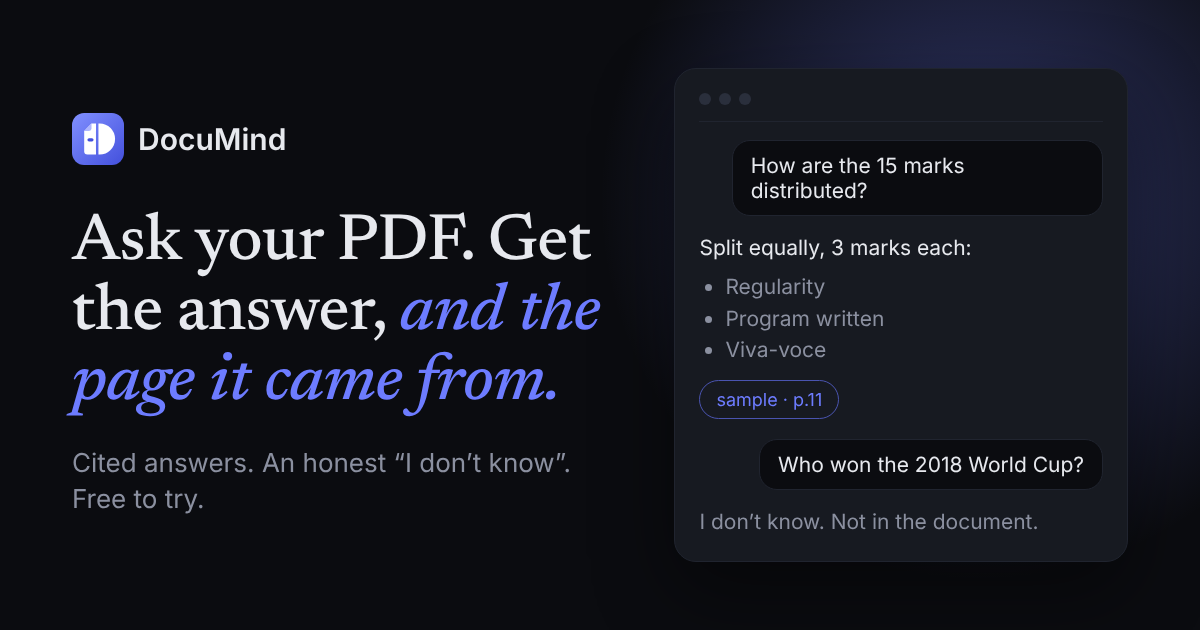
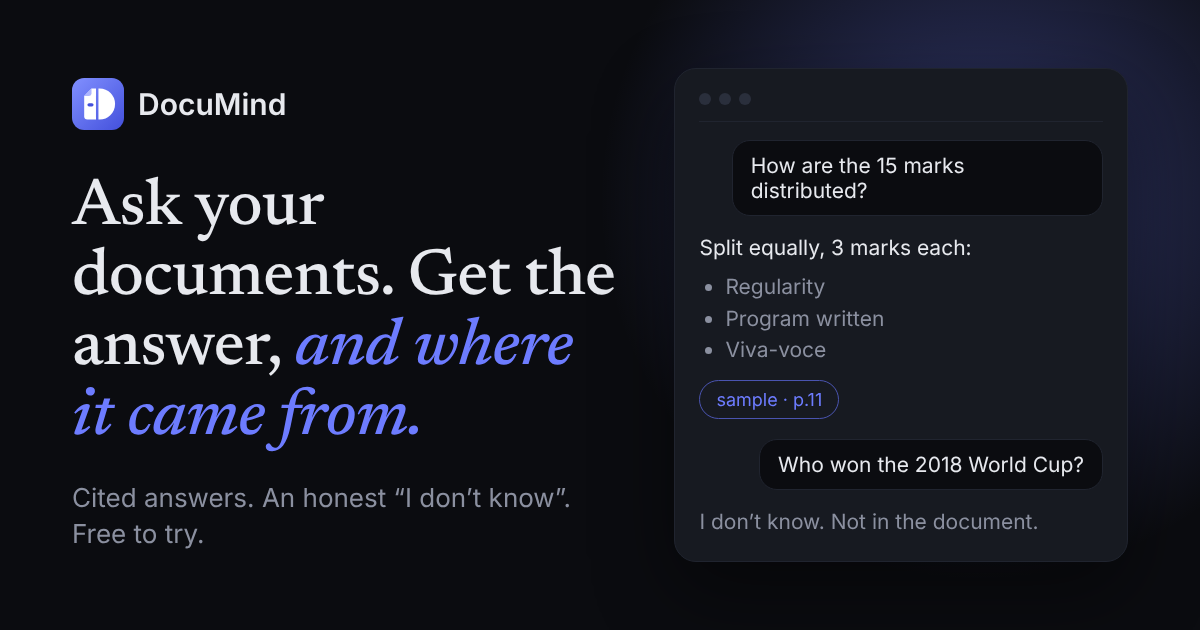
Update share image, meta text and README for all file types
Problem: Share card, meta text and README said PDF only.

Fix: New og.png, new title and description, README wording.

Tested: Build passes.

Changed region(s): [[0.0617, 0.1206, 0.5242, 0.8746]]

diff --git a/web/index.html b/web/index.html
@@ -3,13 +3,13 @@
   <head>
     <meta charset="UTF-8" />
     <meta name="viewport" content="width=device-width, initial-scale=1.0" />
-    <title>DocuMind – Ask your PDF, get cited answers</title>
+    <title>DocuMind – Ask your documents, get cited answers</title>
     <meta name="author" content="Naved Korabu" />
-    <meta name="description" content="Upload a PDF and ask questions. Every answer shows the page it came from, and DocuMind says 'I don't know' when the answer isn't there. Free to try." />
+    <meta name="description" content="Upload files or add a web page and ask questions. Every answer shows where it came from, and DocuMind says 'I don't know' when the answer isn't there. Free to try." />
     <link rel="icon" type="image/svg+xml" href="/favicon.svg" />
     <meta name="theme-color" content="#0b0c10" />
     <meta property="og:type" content="website" />
-    <meta property="og:title" content="DocuMind – Ask your PDF, get cited answers" />
+    <meta property="og:title" content="DocuMind – Ask your documents, get cited answers" />
     <meta property="og:description" content="Cited answers. An honest 'I don't know'. Free to try." />
     <meta property="og:url" content="https://documindai.duckdns.org/" />
     <meta property="og:image" content="https://documindai.duckdns.org/og.png" />

diff --git a/README.md b/README.md
@@ -2,7 +2,7 @@
 
 # DocuMind
 
-Ask questions about your PDFs and get answers with page citations. If the answer is not in the document, DocuMind says "I don't know" instead of guessing.
+Ask questions about your files and web pages and get answers with citations (page, slide or part). If the answer is not in the document, DocuMind says "I don't know" instead of guessing.
 
 **Live demo:** https://documindai.duckdns.org (click "Try demo", no sign-up needed)
 
@@ -11,7 +11,7 @@ Ask questions about your PDFs and get answers with page citations. If the answer
 ![I don't know](docs/idk.png)
 
 ## Features
-- Upload PDFs and chat with them (answers cite the document and page)
+- Upload files and chat with them (answers cite the document and the page, slide or part)
 - Strict answers: only from your documents, otherwise "I don't know"
 - Follow-up questions work (chat memory) and answers can be regenerated
 - Login, "Try demo" accounts, per-user documents, upload and rate limits
@@ -20,14 +20,14 @@ Ask questions about your PDFs and get answers with page citations. If the answer
 - Scanned (image-only) PDFs are detected and rejected with a clear message
 - Many file types: PDF, Word, ODT, RTF, PowerPoint, EPUB, email, subtitles, HTML, JSON, XML, text, Markdown and code, plus public web pages by link
 - Answers stream word by word, and hovering a source shows the exact passage
-- One-click Summarise: a short summary of a whole PDF with page references
+- One-click Summarise: a short summary of a whole document with references
 - Sign up, sign in, forgot password by email, and delete my account
 - Demo accounts and their files are cleaned up automatically after 48 hours
 
 
 ## How it works
 ```
-PDF -> split into chunks (1000 chars, 150 overlap) -> embeddings (all-MiniLM-L6-v2)
+File or web page -> read text -> split into chunks(1000 chars, 150 overlap) -> embeddings (all-MiniLM-L6-v2)
     -> Qdrant vector database
 Question -> vector search + cross-encoder re-ranking + neighbour chunks
          -> strict prompt -> LLM (Groq gpt-oss-20b / Gemini) -> answer + citations
